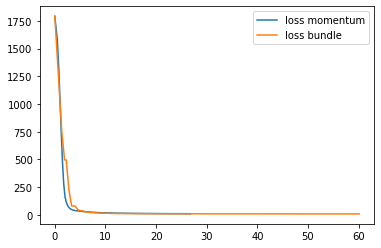
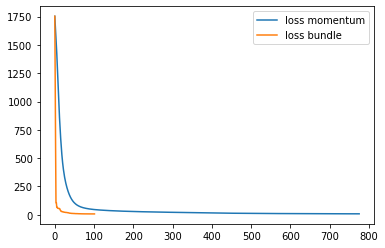
adattato codice a nuovi esperimenti

diff --git a/utils.py b/utils.py
@@ -203,13 +203,12 @@ def proximal_bundle_method(n, train_x, train_y, reg_param=1e-04, m1 = 5e-02, eps
       n.w = deflatten(n,x_bar); n.w = set_zeros(n.w)
 
       print('SS')
-      statistics(np.linalg.norm(g_x_bar))
     else:
       print('NS')
-      statistics(np.linalg.norm(g_x_bar))
       mu = mu * 1.3
 
+    statistics(np.linalg.norm(g_x_bar))
     bundle.append( (x_star, f_x_star, g_x_star) )
     n_epoch += 1
   
-  return grad_norms, errors, times
+  return grad_norms, errors, times, n_epoch

diff --git a/MLP.py b/MLP.py
@@ -250,7 +250,7 @@ class MLP():
       # update epochs counter and collect statistics
       epoch +=1; statistics(gradient_norm / init_gradient_norm)
     
-    return grad_norms, errors, times
+    return grad_norms, errors, times, epoch
     
 
   def supply(self, u):
